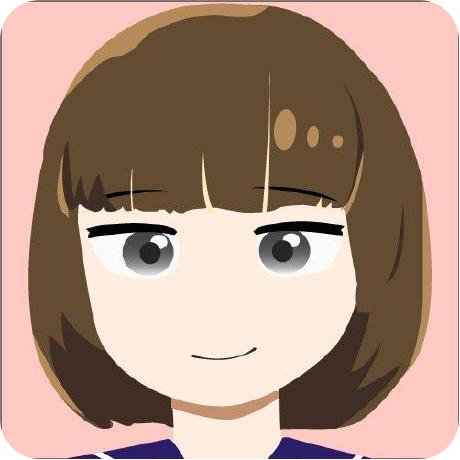
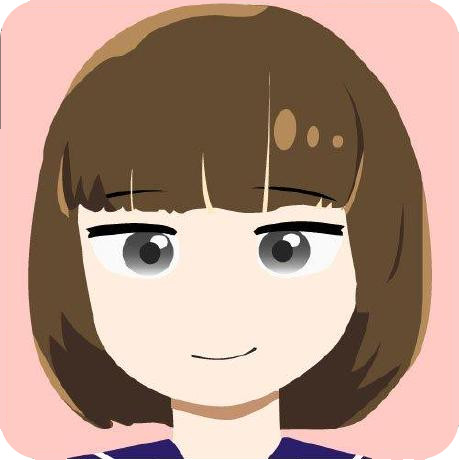
アイコン丸くした　その他微妙調整

diff --git a/links.html b/links.html
@@ -11,12 +11,12 @@
 		<script>
 			new WOW().init()
 		</script>
-		<link rel="icon" type="image/png" href="img/itoppy.png">
+		<link rel="icon" type="image/png" href="img/itoppy.jpg">
 		<title>Links itoppy's website</title>
 	</head>
 	<body>
 		<ul id="top">
-			<p><img src="img/itoppy.png" width="80px" height="80px">itoppy's website</p>
+			<p><img src="img/itoppy.jpg" width="80px" height="80px">itoppy's website</p>
 		</ul>
 		<ul id="menu">
 			<li><a href="index.html">PLOFILE</a></li>
@@ -30,23 +30,23 @@
 				<p>許可を頂いたサイトへのリンク集です。</p>
 				<p><br><br></p>
 			<a name="yuki">
-				<p class="big"><a href="https://yuki384.github.io"><img src="img/yukimihashi.png" width="80px" height="80px"></img></a>Yuki's website</p>
+				<p class="big"><a href="https://yuki384.github.io"><img src="img/yuki384.png" width="80px" height="80px"></img></a>Yuki's website</p>
 					<p>https://yuki384.github.io</p>
 					<hr width="100%" color="#05a888" align="left" size="3px" class="wow fadeInLeft" data-wow-duration="1s" data-wow-delay="0.3s">
-					<p>小中高生プログラミングサークルのECoder'sの主催者で、2018年度未踏ジュニアスーパークリエイターの三橋優希(<a href="twitter.com/YukiMihashi">@YukiMihashi</a>)さんのサイトです。プログラミングとデザイン、どちらもレベルが高くて憧れています。彼女が僕のアイコンの作者です。普段から色々とお世話になっています。</p>
+					<p>小中高生プログラミングサークルのECoder'sの主催者で、2018年度未踏ジュニアスーパークリエイターの三橋優希(<a href="https://twitter.com/YukiMihashi">@YukiMihashi</a>)さんのサイトです。プログラミングとデザイン、どちらもレベルが高くて憧れています。彼女が僕のアイコンの作者です。普段から色々とお世話になっています。</p>
 			<p><br><br></p>
 			<a name="kuro">
 				<p class="big"><a href="https://matsudokuroneko.github.io"><img src="img/Kuro.png" width="80px" height="80px"></a>Kuro.'s website</p>
 					<p>https://matsudokuroneko.github.io/</p>
 					<hr width="100%" color="#05a888" align="left" size="3px" class="wow fadeInLeft" data-wow-duration="1s" data-wow-delay="0.3s">
-					<p>プロジェクトのβ版の共有を楽にするWebサービス、「Testers Park」を作っているKuro.さんのウェブサイトです。僕のラズパイに色々ソフトをインストールしてくれました。僕が使っているGeditというエディタをインストールしてくれたのも彼です。</p>
+					<p>プロジェクトのβ版の共有を楽にするWebサービス、「Testers Park」を作っているKuro.(<a href="https://twitter.com/matsud_kuroneko">@matsud_kuroneko</a>)さんのウェブサイトです。僕のラズパイに色々ソフトをインストールしてくれました。僕が使っているGeditというエディタをインストールしてくれたのも彼です。</p>
 			</a>
 			<p><br><br></p>
 			<a name="anharu">
 				<p class="big"><a href="https://anharu2394.github.io"><img src="img/anharu.png" width="80px" height="80px"></img></a>Anharu's website</p>
 					<p>https://anharu2394.github.io</p>
 					<hr width="100%" color="#05a888" align="left" size="3px" class="wow fadeInLeft" data-wow-duration="1s" data-wow-delay="0.3s">
-					<p>エンジニアの情報収集用Webサービス、「たぐまる」の製作者のあんはるさんのウェブサイトです。Vimクッキーを作った人。</p>
+					<p>エンジニアの情報収集用Webサービス、「たぐまる」の製作者のあんはる(<a href="https://twitter.com/_anharu2">@_anharu2</a>)さんのウェブサイトです。Vimクッキーを作った人。</p>
 			</a>
 			<p><br><br></p>
 			<a name="koutan1803">

diff --git a/index.html b/index.html
@@ -21,7 +21,7 @@
 		<script>
 			new WOW().init()
 		</script>
-		<link rel="icon" type="image/png" href="img/itoppy.png">
+		<link rel="icon" type="image/png" href="img/itoppy.jpg">
 		<!--Title-->
 		<title>Plofile itoppy's website</title>
 	</head>
@@ -34,21 +34,21 @@
 			<li><a href="links.html">LINKS</a></li>
 		</ul>
 		<ul id="top">
-			<p><img src="img/itoppy.png" width="80px" height="80px">itoppy's website</p>
+			<p><img src="img/itoppy.jpg" width="80px" height="80px">itoppy's website</p>
 		</ul>
 		<div class="plofile">
 			<h1>PLOFILE</h1>
-				<p>2005年生まれの13歳、東京都在住。<br>プロテスタントのクリスチャンです。プログラミングをやったり、料理したり、小説書いたり、音源創ったりしています。<br>ことばが好き。プログラミングの中でも文系よりの「自然言語処理」というものをやっています。<a href="https://pirka-ai.github.io">pirka</a>というAIを開発しています。</p>
+				<p>2005年生まれの13歳、東京都在住。<br>プロテスタントのクリスチャンです。プログラミングをやったり、料理したり、小説書いたり、音源創ったりしています。</p>
 		<p><br><br></p>
 				<h2>Hobbies</h2>
 					<p class="jp">趣味</p>
 					<hr width="100%" color="#05a888" align="left" size="3px" class="wow fadeInLeft" data-wow-duration="1s" data-wow-delay="0.3s">
-						<p>ギター</p><p>料理</p><p>音源を作ること</p><p>小説を書くこと</p>
+						<p>ギター/料理/音源を作ること/小説を書くこと</p>
 		<p><br><br></p>
 				<h2>Languages Skill</h2>
 					<p class="jp">使っている言語</p>
 					<hr width="100%" color="#05a888" align="left" size="3px" class="wow fadeInLeft" data-wow-duration="1s" data-wow-delay="0.3s">
-					<p>Python3/HTML/CSS/Bash</p>
+					<p>Python/HTML/CSS/Bash</p>
 		<p><br><br></p>
 				<h2>Software Skill</h2>
 					<p class="jp">使っているソフト</p>

diff --git a/code.html b/code.html
@@ -11,12 +11,12 @@
 		<script>
 			new WOW().init()
 		</script>
-		<link rel="icon" type="image/png" href="img/itoppy.png">
+		<link rel="icon" type="image/png" href="img/itoppy.jpg">
 		<title>Code itoppy's website</title>
 	</head>
 	<body>
 		<ul id ="top">
-			<p><img src="img/itoppy.png" width="80px" height="80px">itoppy's website</p>
+			<p><img src="img/itoppy.jpg" width="80px" height="80px">itoppy's website</p>
 		</ul>
 		<ul id="menu">
 			<li><a href="index.html">PLOFILE</a></li>

diff --git a/works.html b/works.html
@@ -11,12 +11,12 @@
 		<script>
 			new WOW().init()
 		</script>
-		<link rel="icon" type="image/png" href="img/itoppy.png">
+		<link rel="icon" type="image/png" href="img/itoppy.jpg">
 		<title>Works itoppy's website</title>
 	</head>
 	<body>
 		<ul id="top">
-			<p><img src="img/itoppy.png" width="80px" height="80px">itoppy's website</p>
+			<p><img src="img/itoppy.jpg" width="80px" height="80px">itoppy's website</p>
 		</ul>
 		<ul id="menu">
 			<li><a href="index.html">PLOFILE</a></li>

diff --git a/blog.html b/blog.html
@@ -11,12 +11,12 @@
 		<script>
 			new WOW().init()
 		</script>
-		<link rel="icon" type="image/png" href="img/itoppy.png">
+		<link rel="icon" type="image/png" href="img/itoppy.jpg">
 		<title>Blog itoppy's website</title>
 	</head>
 	<body>
 		<ul id="top">
-			<p><img src="img/itoppy.png" width="80px" height="80px">itoppy's website</p>
+			<p><img src="img/itoppy.jpg" width="80px" height="80px">itoppy's website</p>
 		</ul>
 		<ul id="menu">
 			<li><a href="index.html">PLOFILE</a></li>
